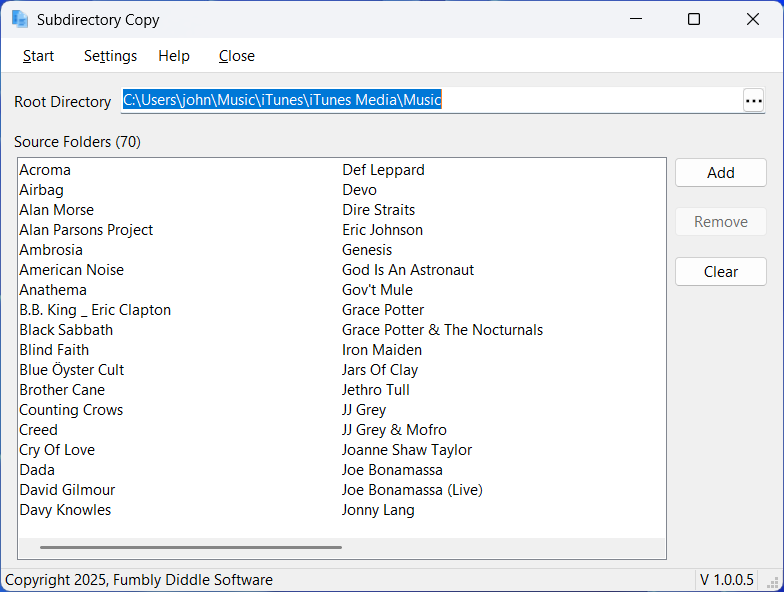
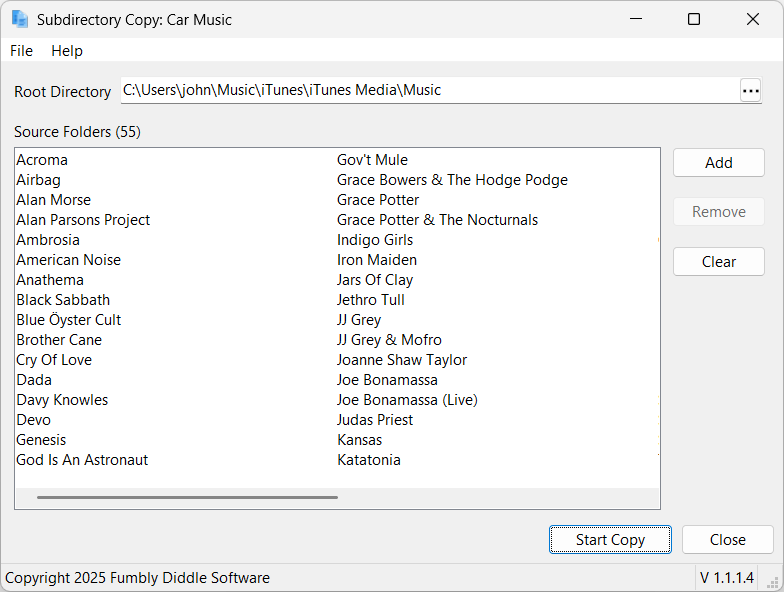
working away

diff --git a/readme.md b/readme.md
@@ -1,5 +1,19 @@
 # Subdirectory Copy
 
+## Tasks
+
+- [ ] Readme update
+- [ ] Video recording
+- [ ] Product page update
+- [ ] Docs update
+- [ ] Publish v1.1 binary
+- [ ] Blog post
+- [ ] Refactor app to use RzRegApp for all Registry interaction
+- [ ] Block secondary instances from running
+- [ ] Pass launcher to Processing Form
+
+## Introduction
+
 Have you ever needed to copy a subset of a directory's subdirectories to a flash drive? This application allows you to do that. 
 
 For example, some automobiles allow drivers to insert SD cards or attach USB Flash drives to vehicle and play music from the attached drive. If your music catalog is too large to fit on the drive (or if the vehicle only supports a maximum size drive) then you may need to copy just a subset of the artists to the device.
@@ -8,7 +22,7 @@ In the application, specify the root directory that contains the subdirectories 
 
 ![Application main screen](screenshots/figure-01.png)
 
-Once populated, click the **Start** button to start the copy process.
+Once populated, click the **Start Copy** button on the toolbar to start the copy process.
 
 ![Starting the copy process](screenshots/figure-02.png)
 
